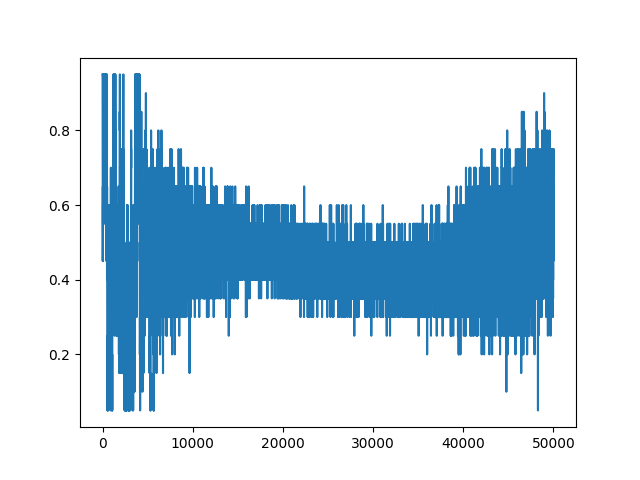
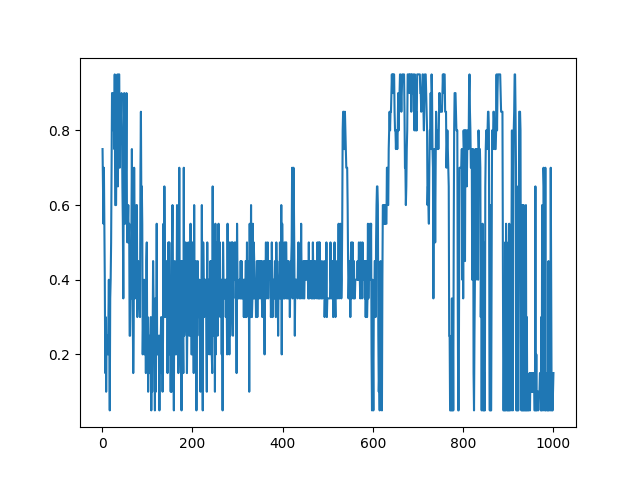
update logging

diff --git a/rl/main_gov.py b/rl/main_gov.py
@@ -1,3 +1,4 @@
+import logging
 from os import path
 import numpy as np
 import matplotlib.pyplot as plt
@@ -7,6 +8,9 @@ from market_env.env import DefiEnv, PlfPool, PriceDict, User
 from rl.dqn_gov import Agent
 from rl.rl_env import ProtocolEnv
 from rl.utils import plot_learning_curve
+
+# show logging level at info
+logging.basicConfig(level=logging.INFO)
 
 if __name__ == "__main__":
     # initialize environment
@@ -35,7 +39,7 @@ if __name__ == "__main__":
     # agent = Agent(state_size, action_size)
 
     scores, eps_history = [], []
-    n_games = 50_000
+    n_games = 5_000
 
     collateral_factors = []
 
@@ -43,17 +47,9 @@ if __name__ == "__main__":
         score = 0
         done = False
         observation = env.reset()
-        # print("=====================================")
-        # print(observation.astype(np.float32))
-        # print("=====================================")
         while not done:
             action = agent.choose_action(observation.astype(np.float32))
             observation_, reward, done, _ = env.step(action)
-            # print("=====================================")
-            # print(observation_)
-            # print(reward)
-            # print(done)
-            # print("=====================================")
             score += reward
             agent.store_transition(observation, action, reward, observation_, done)
             agent.learn()
@@ -62,17 +58,10 @@ if __name__ == "__main__":
         eps_history.append(agent.epsilon)
 
         avg_score = np.mean(scores[-30:])
-        print(
-            "episode ",
-            i,
-            "score %.2f" % score,
-            "average score %.2f" % avg_score,
-            "epsilon %.2f" % agent.epsilon,
-            "collateral factor %s"
-            % ",".join(
-                f"{p.collateral_factor:.2}" for p in defi_env.plf_pools.values()
-            ),
-        )
+        if i % 10 == 0:
+            logging.info(
+                f"logging.debug {i} score {score:.2f} average score {avg_score:.2f} epsilon {agent.epsilon:.2f} collateral factor {next(iter(defi_env.plf_pools.values())).collateral_factor:.2f}"
+            )
         collateral_factors.append(
             next(iter(defi_env.plf_pools.values())).collateral_factor
         )

diff --git a/market_env/env.py b/market_env/env.py
@@ -59,7 +59,6 @@ class DefiEnv:
         return sum(self._apply_to_all_pools(PlfPool.get_reward))
 
     def get_state(self) -> np.ndarray:
-        print("Total available funds: ", self.plf_pools.values())
         return np.concatenate(self._apply_to_all_pools(PlfPool.get_state))
 
     def is_done(self) -> bool:
@@ -67,7 +66,6 @@ class DefiEnv:
         Returns True if step reaches max_steps, otherwise False
         """
         self.step += 1
-        # print("Step: ", self.step, "Max steps: ", self.max_steps)
         return self.step >= self.max_steps
 
     def reset(self):
@@ -113,7 +111,7 @@ class User:
             value * self.env.prices[asset_name]
             for asset_name, value in self.funds_available.items()
         )
-        logging.info(f"{self.name}'s wealth in USD: {user_wealth}")
+        logging.debug(f"{self.name}'s wealth in USD: {user_wealth}")
 
         return user_wealth
 
@@ -135,13 +133,15 @@ class User:
                 plf.user_i_tokens[self.name]
                 - plf.user_b_tokens[self.name] / plf.collateral_factor
             )
-            amount = min(max(amount, -withdraw_limit), 0)
+            amount = min(max(amount, -withdraw_limit), -plf.total_available_funds)
 
         if -1e-3 < amount < 1e-3:
             return
 
-        logging.info(
-            f"{'supplying' if amount > 0 else 'withdrawing'} {amount} {plf.asset_name}"
+        logging.debug(
+            f"supplying {amount} {plf.asset_name}"
+            if amount > 0
+            else f"withdrawing {-amount} {plf.asset_name}"
         )
 
         self.funds_available[plf.asset_name] -= amount
@@ -185,8 +185,10 @@ class User:
         if -1e-3 < amount < 1e-3:
             return
 
-        logging.info(
-            f"{'borrowing' if amount > 0 else 'repaying'} {-amount} {plf.asset_name}"
+        logging.debug(
+            f"borrowing {amount} {plf.borrow_token_name}"
+            if amount > 0
+            else f"repaying {-amount} {plf.borrow_token_name}"
         )
         # update liquidity pool
         plf.total_borrowed_funds += amount
